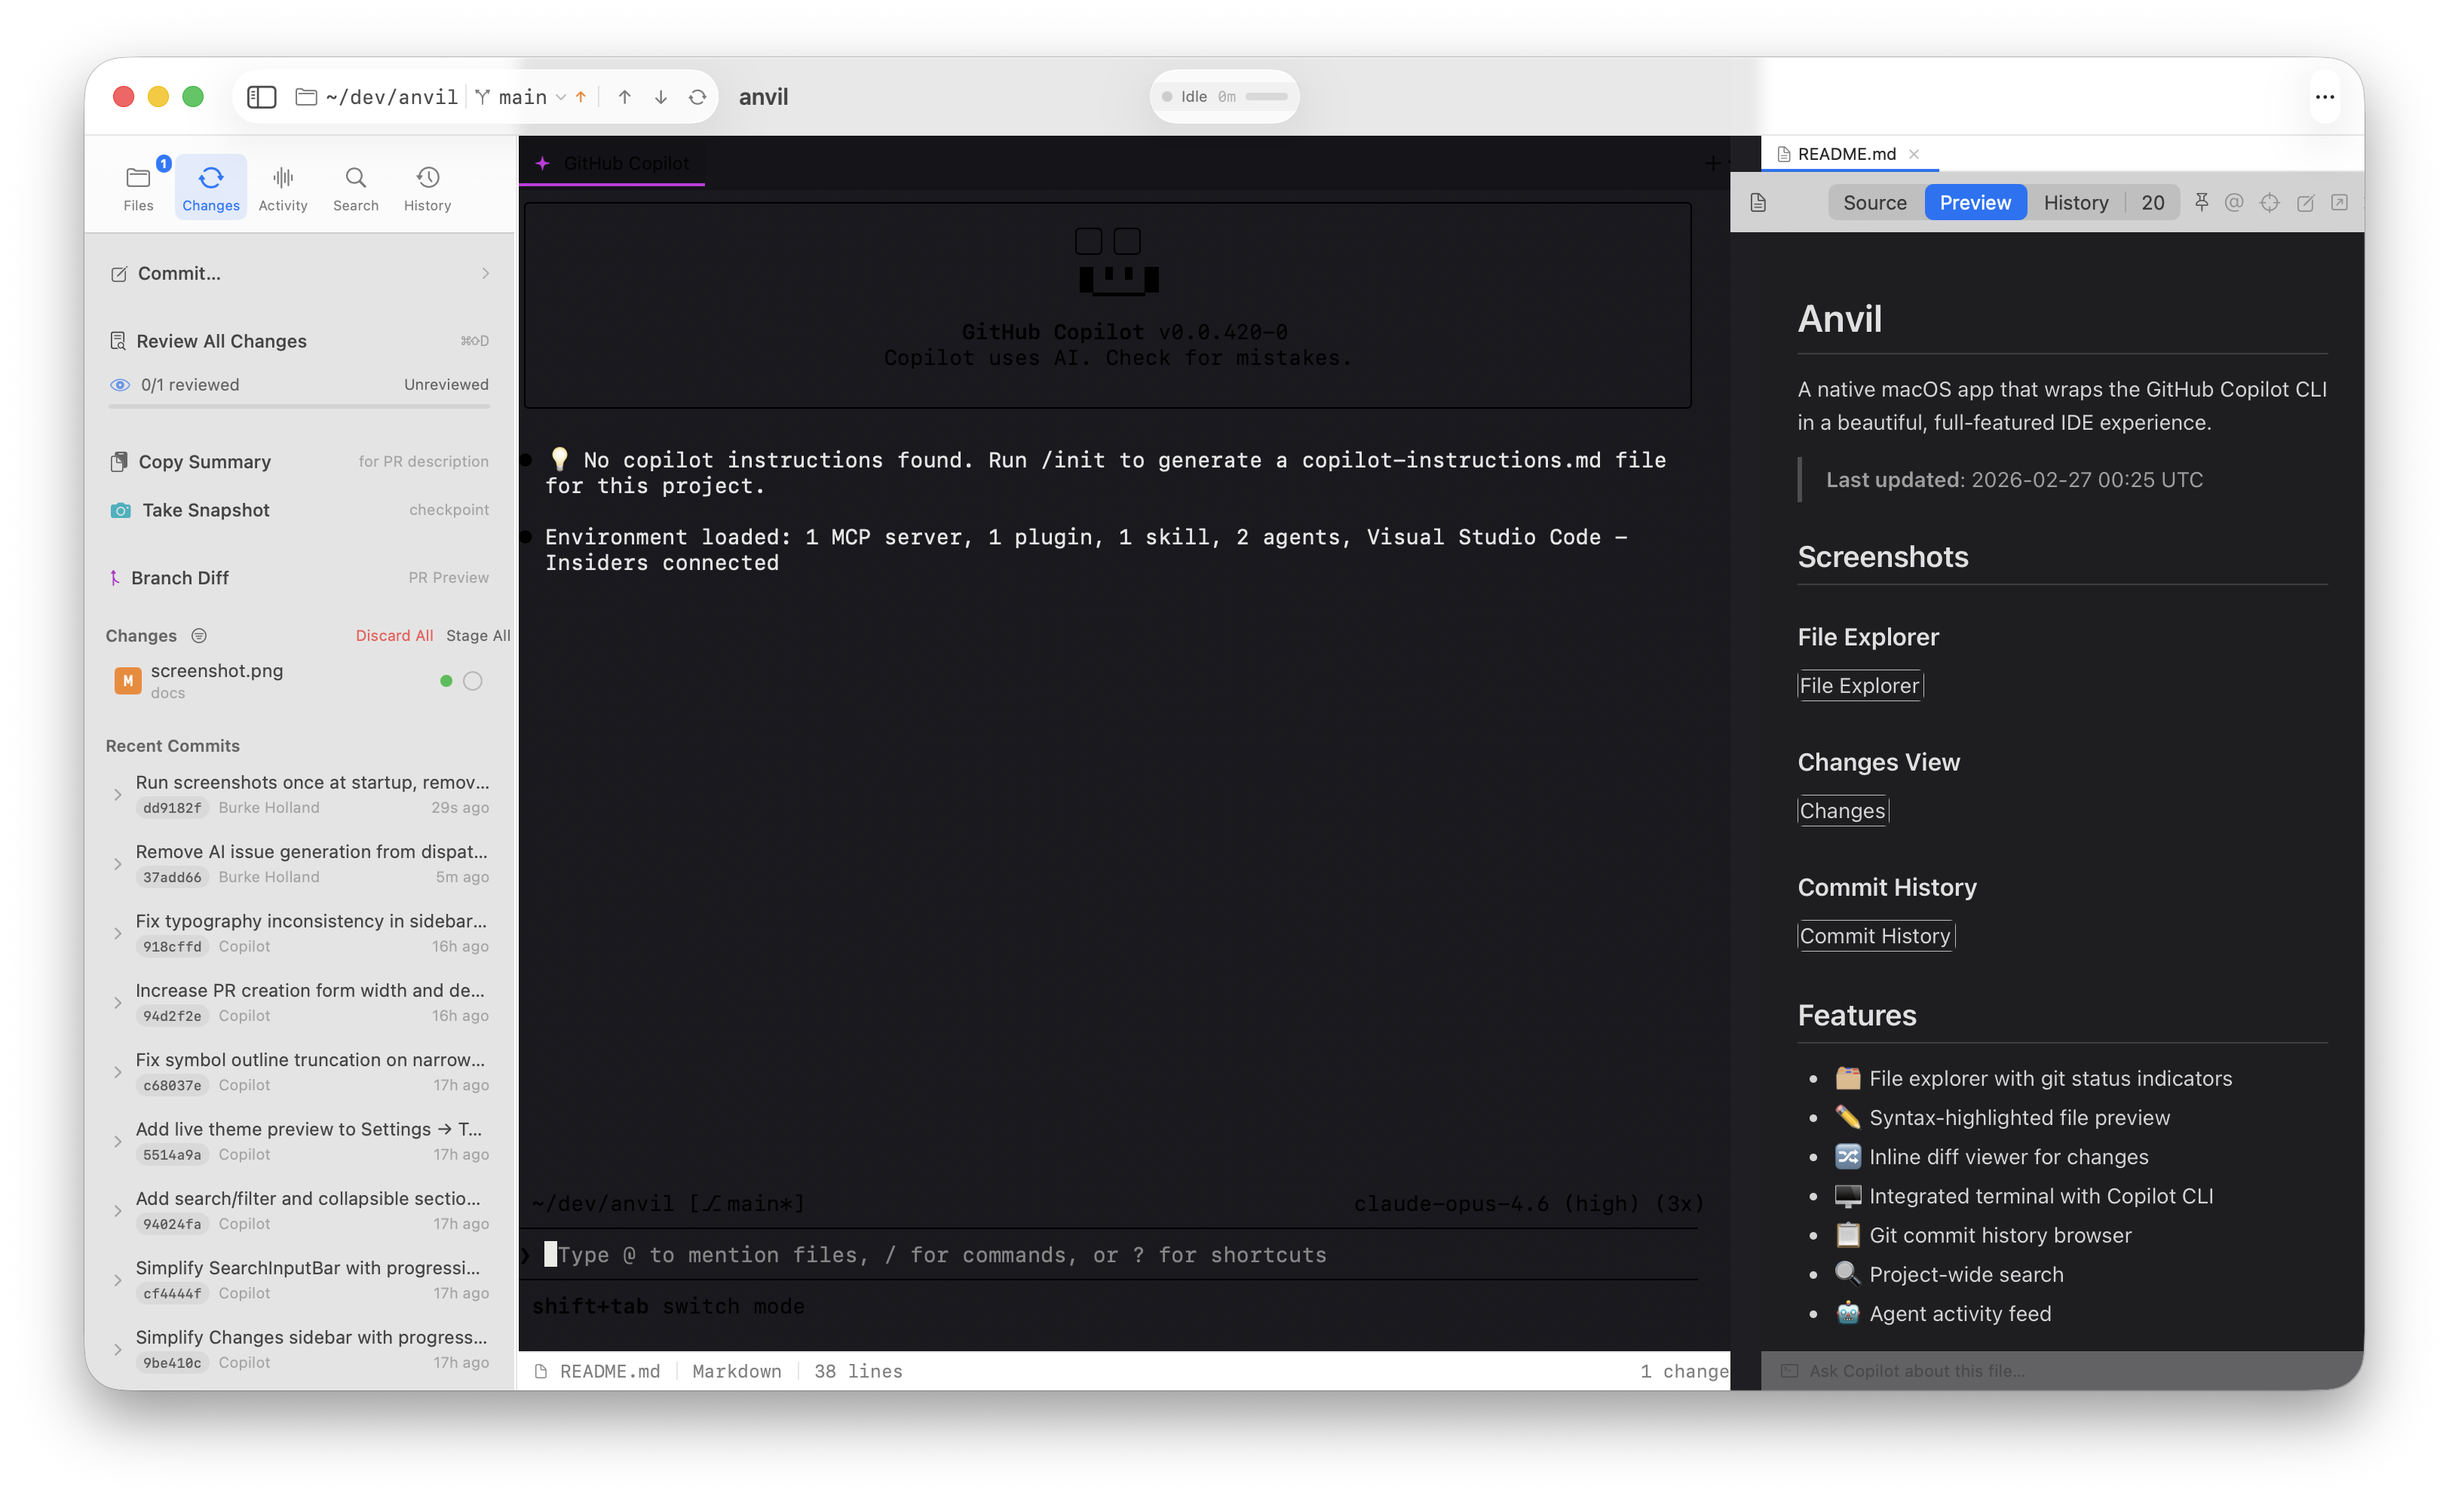
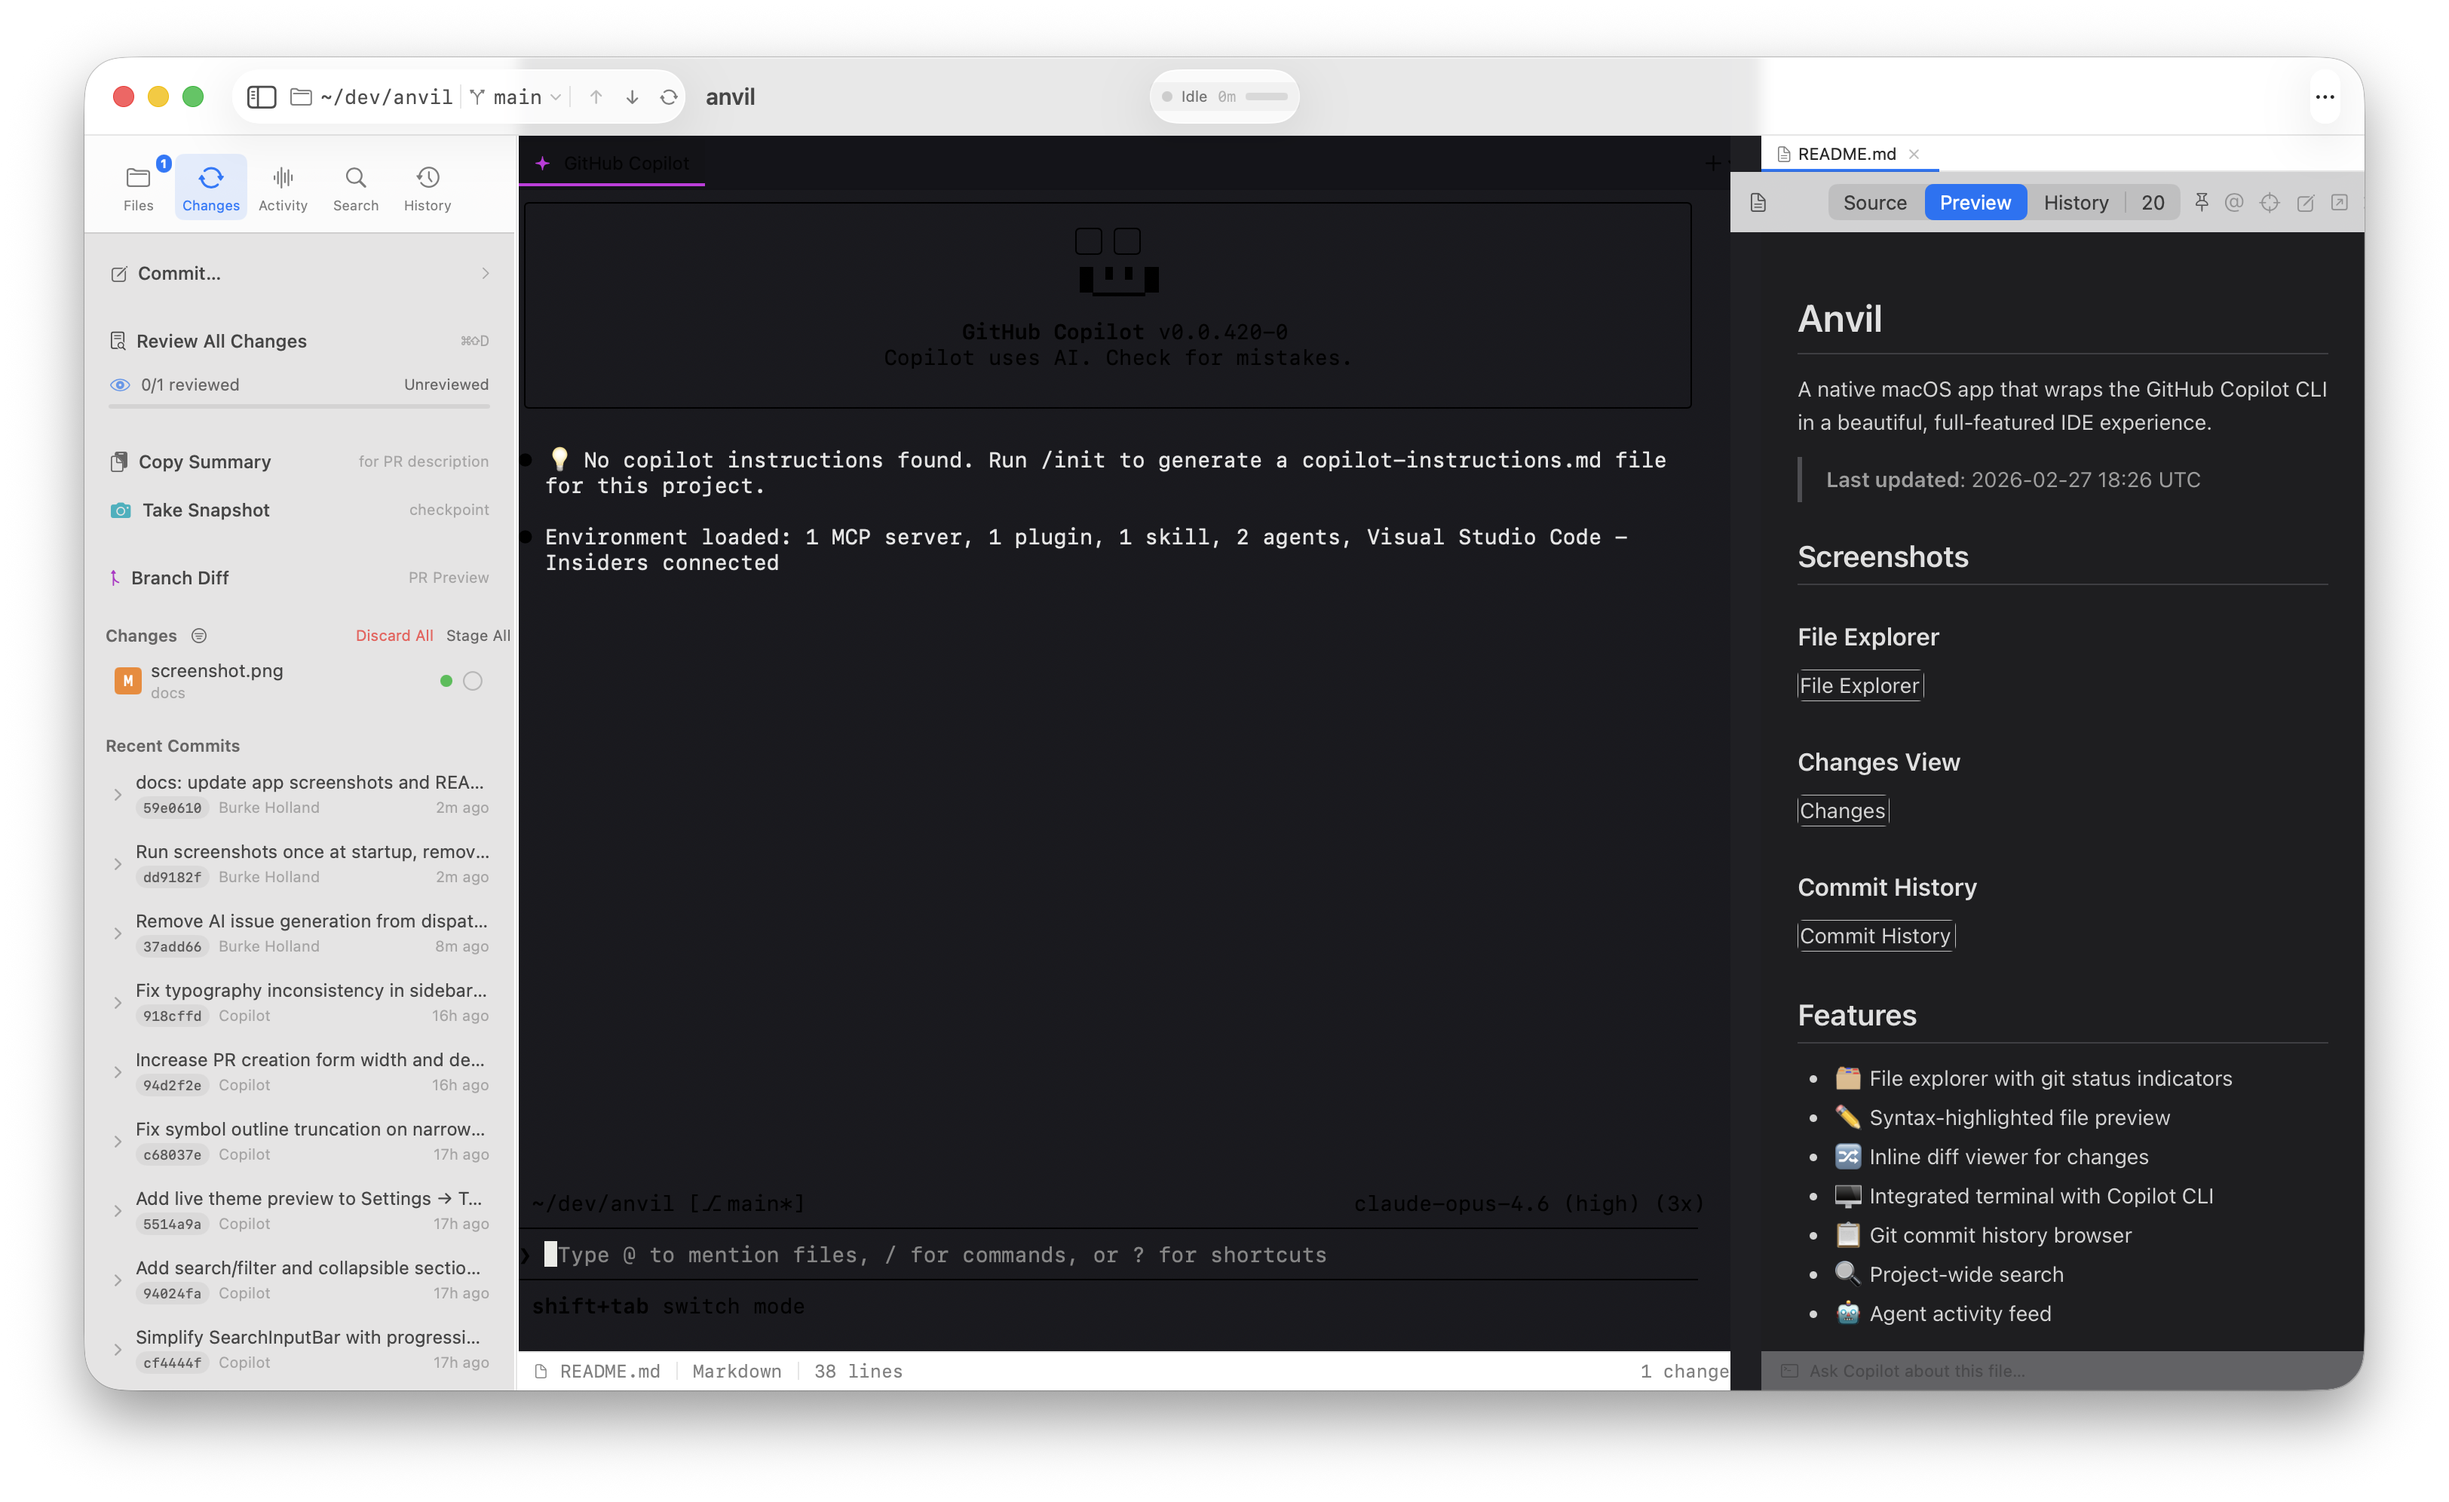
docs: update app screenshots and README (2026-02-27 18:29 UTC)

diff --git a/README.md b/README.md
@@ -2,7 +2,7 @@
 
 A native macOS app that wraps the GitHub Copilot CLI in a beautiful, full-featured IDE experience.
 
-> **Last updated**: 2026-02-27 18:26 UTC
+> **Last updated**: 2026-02-27 18:29 UTC
 
 ## Screenshots
 
